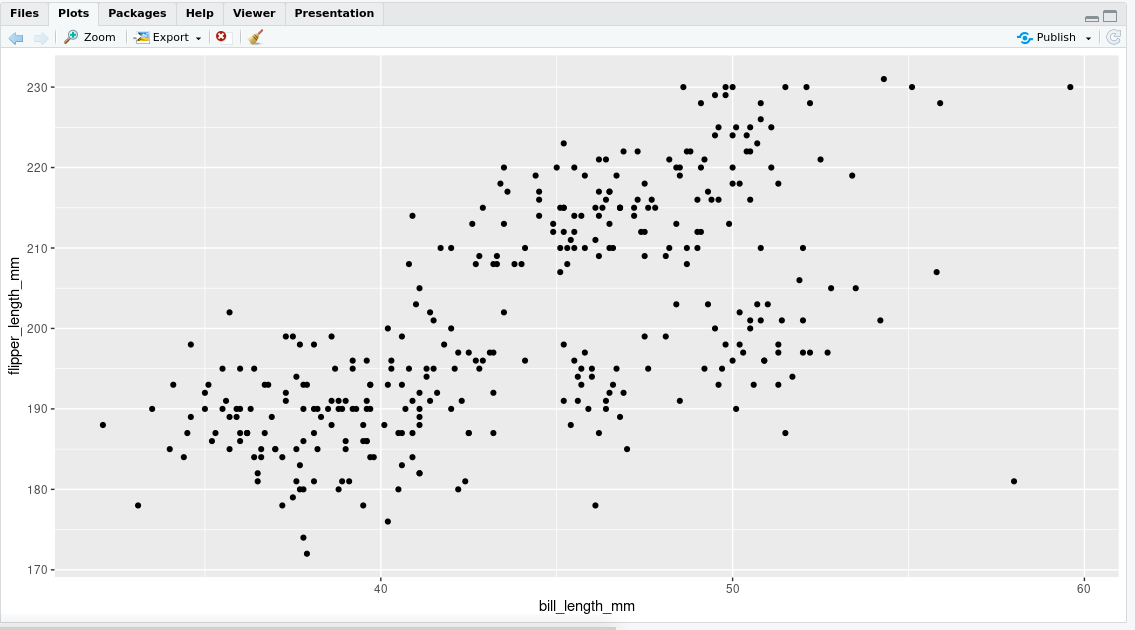
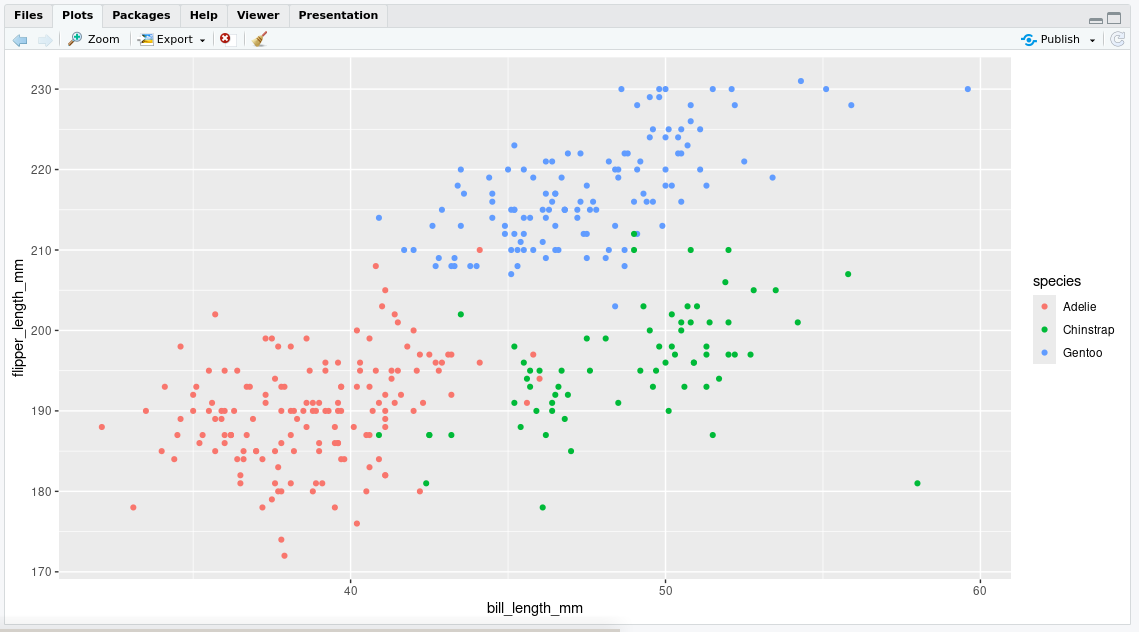
modify rstudio-basic.md

diff --git a/public/post/rstudio-basic/index.html b/public/post/rstudio-basic/index.html
@@ -132,7 +132,7 @@ What is R &amp; RStudio? Why R &amp; RStudio1 R &amp; RStudio Installation RStud
     <h1 class="post-title entry-hint-parent">
       RStudio Basic: From Installation to Data Visualization
     </h1>
-    <div class="post-meta"><span title='2024-06-13 11:56:25 -0400 EDT'>June 13, 2024</span>&nbsp;·&nbsp;11 min&nbsp;·&nbsp;Wildan
+    <div class="post-meta"><span title='2024-06-13 11:56:25 -0400 EDT'>June 13, 2024</span>&nbsp;·&nbsp;12 min&nbsp;·&nbsp;Wildan
 
 </div>
   </header> 
@@ -173,7 +173,9 @@ What is R &amp; RStudio? Why R &amp; RStudio1 R &amp; RStudio Installation RStud
                 <li>
                     <a href="#4-box-plot" aria-label="4. Box Plot">4. Box Plot</a></li>
                 <li>
-                    <a href="#5-line-plot" aria-label="5. Line Plot">5. Line Plot</a>
+                    <a href="#5-line-plot" aria-label="5. Line Plot">5. Line Plot</a></li>
+                <li>
+                    <a href="#6-pie-chart" aria-label="6. Pie Chart">6. Pie Chart</a>
                 </li>
             </ul>
             </li>
@@ -391,7 +393,7 @@ Kita bisa melihat informasi atau deskripsi dari sebuah paket atau library dengan
 <h4 id="1-scatter-plot">1. Scatter Plot<a hidden class="anchor" aria-hidden="true" href="#1-scatter-plot">#</a></h4>
 <p><strong>Scatter Plot</strong> atau <strong>Grafik Pencar</strong> digunakan untuk menampilkan hubungan antara dua variabel numerik.<br>
 Misalnya: Hubungan antara panjang paruh dan panjang sirip penguin.</p>
-<div class="highlight"><pre tabindex="0" style="color:#f8f8f2;background-color:#272822;-moz-tab-size:4;-o-tab-size:4;tab-size:4;"><code class="language-R" data-lang="R"><span style="display:flex;"><span><span style="color:#a6e22e">ggplot</span>(data <span style="color:#f92672">=</span> penguins, <span style="color:#a6e22e">aes</span>(x <span style="color:#f92672">=</span> bill_length_mm, y <span style="color:#f92672">=</span> flipper_length_mm)) <span style="color:#f92672">+</span>
+<div class="highlight"><pre tabindex="0" style="color:#f8f8f2;background-color:#272822;-moz-tab-size:4;-o-tab-size:4;tab-size:4;"><code class="language-R" data-lang="R"><span style="display:flex;"><span><span style="color:#a6e22e">ggplot</span>(data <span style="color:#f92672">=</span> penguins, <span style="color:#a6e22e">aes</span>(x <span style="color:#f92672">=</span> bill_length_mm, y <span style="color:#f92672">=</span> flipper_length_mm, color<span style="color:#f92672">=</span>species)) <span style="color:#f92672">+</span>
 </span></span><span style="display:flex;"><span>  <span style="color:#a6e22e">geom_point</span>()
 </span></span></code></pre></div><p>Hasilnya:
 <img loading="lazy" src="/rstudio-basic/ss5.png" alt="ss5"  title="Scatter Plot hubungan antara panjang paruh dan panjang sirip penguin"  />
@@ -436,6 +438,35 @@ Misalnya: Perubahan berat badan penguin dari waktu ke waktu.</p>
 </span></span></code></pre></div><p>Hasilnya:
 <img loading="lazy" src="/rstudio-basic/ss9.png" alt="ss9"  title="Line Plot perubahan berat badan penguin dari waktu ke waktu"  />
 </p>
+<h4 id="6-pie-chart">6. Pie Chart<a hidden class="anchor" aria-hidden="true" href="#6-pie-chart">#</a></h4>
+<p><strong>Pie Chart</strong> digunakan untuk menunjukkan atau membandingkan proporsi atau persentase dari beberapa kategori dalam suatu dataset<sup id="fnref:10"><a href="#fn:10" class="footnote-ref" role="doc-noteref">10</a></sup>.<br>
+Misalnya: Perbandingan jumlah spesies penguin.</p>
+<div class="highlight"><pre tabindex="0" style="color:#f8f8f2;background-color:#272822;-moz-tab-size:4;-o-tab-size:4;tab-size:4;"><code class="language-R" data-lang="R"><span style="display:flex;"><span><span style="color:#75715e"># Menghitung jumlah observasi per spesies</span>
+</span></span><span style="display:flex;"><span>penguins_count <span style="color:#f92672">&lt;-</span> penguins <span style="color:#f92672">%&gt;%</span>
+</span></span><span style="display:flex;"><span>  <span style="color:#a6e22e">count</span>(species) <span style="color:#f92672">%&gt;%</span>
+</span></span><span style="display:flex;"><span>  <span style="color:#a6e22e">mutate</span>(percent <span style="color:#f92672">=</span> n <span style="color:#f92672">/</span> <span style="color:#a6e22e">sum</span>(n) <span style="color:#f92672">*</span> <span style="color:#ae81ff">100</span>)  <span style="color:#75715e"># Menambahkan kolom percent</span>
+</span></span><span style="display:flex;"><span>
+</span></span><span style="display:flex;"><span><span style="color:#75715e"># Buat pie chart menggunakan ggplot2</span>
+</span></span><span style="display:flex;"><span>pie <span style="color:#f92672">&lt;-</span> <span style="color:#a6e22e">ggplot</span>(data <span style="color:#f92672">=</span> penguins_count, <span style="color:#a6e22e">aes</span>(x <span style="color:#f92672">=</span> <span style="color:#e6db74">&#34;&#34;</span>, y <span style="color:#f92672">=</span> n, fill <span style="color:#f92672">=</span> species)) <span style="color:#f92672">+</span>
+</span></span><span style="display:flex;"><span>  <span style="color:#a6e22e">geom_bar</span>(stat <span style="color:#f92672">=</span> <span style="color:#e6db74">&#34;identity&#34;</span>, width <span style="color:#f92672">=</span> <span style="color:#ae81ff">1</span>) <span style="color:#f92672">+</span>
+</span></span><span style="display:flex;"><span>  <span style="color:#a6e22e">coord_polar</span>(theta <span style="color:#f92672">=</span> <span style="color:#e6db74">&#34;y&#34;</span>) <span style="color:#f92672">+</span>
+</span></span><span style="display:flex;"><span>  <span style="color:#a6e22e">labs</span>(fill <span style="color:#f92672">=</span> <span style="color:#e6db74">&#34;Spesies&#34;</span>, x <span style="color:#f92672">=</span> <span style="color:#66d9ef">NULL</span>, y <span style="color:#f92672">=</span> <span style="color:#66d9ef">NULL</span>, title <span style="color:#f92672">=</span> <span style="color:#e6db74">&#34;Pie Chart Jumlah Observasi per Spesies&#34;</span>) <span style="color:#f92672">+</span>
+</span></span><span style="display:flex;"><span>  <span style="color:#a6e22e">theme_void</span>() <span style="color:#f92672">+</span>
+</span></span><span style="display:flex;"><span>  <span style="color:#a6e22e">theme</span>(legend.position <span style="color:#f92672">=</span> <span style="color:#e6db74">&#34;right&#34;</span>)
+</span></span><span style="display:flex;"><span>
+</span></span><span style="display:flex;"><span><span style="color:#75715e"># Tambahkan label persentase</span>
+</span></span><span style="display:flex;"><span>pie <span style="color:#f92672">+</span>
+</span></span><span style="display:flex;"><span>  <span style="color:#a6e22e">geom_text</span>(<span style="color:#a6e22e">aes</span>(label <span style="color:#f92672">=</span> <span style="color:#a6e22e">paste0</span>(<span style="color:#a6e22e">round</span>(percent), <span style="color:#e6db74">&#34;%&#34;</span>)), position <span style="color:#f92672">=</span> <span style="color:#a6e22e">position_stack</span>(vjust <span style="color:#f92672">=</span> <span style="color:#ae81ff">0.5</span>))
+</span></span></code></pre></div><p>Hasilnya:
+<img loading="lazy" src="/rstudio-basic/ss10.png" alt="ss10"  title="Pie Chart persentase spesies penguin"  />
+</p>
+<p>Sekian dulu untuk pembahasan RStudio Basic-nya. Kalau kalian ingin tahu lebih jauh tentang visualisasi di R dan RStudio, saya sarankan untuk membaca-baca lebih banyak, seperti misalnya pada artikel berikut: <a href="https://rpubs.com/alfanugraha/r-graph">https://rpubs.com/alfanugraha/r-graph</a>. Artikel tersebut membahas lebih dalam mengenai visualisasi dan grafik di R, mulai dari grafik dasar dengan fungsi <code>plot()</code>, <code>ggplot2()</code>, dan <code>ggplot()</code>, bahkan penerapan visualisasi spasial seperti peta.</p>
+<p>Sampai jumpa lagi di artikel saya yang lain.<br>
+See ya!</p>
+<hr>
+<p><em>By the way</em>, artikel ini saya buat dengan tampilan <strong>Debian Desktop XFCE</strong>:<br>
+<img loading="lazy" src="/rstudio-basic/debian_buuf.png" alt="debian_buuf"  />
+</p>
 <div class="footnotes" role="doc-endnotes">
 <hr>
 <ol>
@@ -465,6 +496,9 @@ Misalnya: Perubahan berat badan penguin dari waktu ke waktu.</p>
 </li>
 <li id="fn:9">
 <p><a href="https://allisonhorst.github.io/palmerpenguins/">https://allisonhorst.github.io/palmerpenguins/</a>&#160;<a href="#fnref:9" class="footnote-backref" role="doc-backlink">&#x21a9;&#xfe0e;</a>&#160;<a href="#fnref1:9" class="footnote-backref" role="doc-backlink">&#x21a9;&#xfe0e;</a></p>
+</li>
+<li id="fn:10">
+<p><a href="https://rpubs.com/alfanugraha/r-graph">https://rpubs.com/alfanugraha/r-graph</a>&#160;<a href="#fnref:10" class="footnote-backref" role="doc-backlink">&#x21a9;&#xfe0e;</a></p>
 </li>
 </ol>
 </div>

diff --git a/public/post/index.html b/public/post/index.html
@@ -142,7 +142,7 @@ RStudio menurut saya adalah software keren untuk mengolah data menggunakan bahas
 Beberapa hal yang akan saya bahas dari Rstudio di artikel ini terbagi ke dalam 6 bagian:
 What is R &amp; RStudio? Why R &amp; RStudio1 R &amp; RStudio Installation RStudio Interface Introduction Installing Packages (tidyverse &amp; palmerpenguins) Playing with Data 1....</p>
   </div>
-  <footer class="entry-footer"><span title='2024-06-13 11:56:25 -0400 EDT'>June 13, 2024</span>&nbsp;·&nbsp;11 min&nbsp;·&nbsp;Wildan</footer>
+  <footer class="entry-footer"><span title='2024-06-13 11:56:25 -0400 EDT'>June 13, 2024</span>&nbsp;·&nbsp;12 min&nbsp;·&nbsp;Wildan</footer>
   <a class="entry-link" aria-label="post link to RStudio Basic: From Installation to Data Visualization" href="http://localhost:1313/post/rstudio-basic/"></a>
 </article>
 

diff --git a/content/post/rstudio-basic.md b/content/post/rstudio-basic.md
@@ -263,7 +263,7 @@ Kita bisa membuat grafik dari dataset **penguins** tersebut menggunakan `ggplot2
 Misalnya: Hubungan antara panjang paruh dan panjang sirip penguin.
 
 ```R
-ggplot(data = penguins, aes(x = bill_length_mm, y = flipper_length_mm)) +
+ggplot(data = penguins, aes(x = bill_length_mm, y = flipper_length_mm, color=species)) +
   geom_point()
 ```
 
@@ -331,6 +331,42 @@ Hasilnya:
 ![ss9](/rstudio-basic/ss9.png "Line Plot perubahan berat badan penguin dari waktu ke waktu")
 
 
+#### 6. Pie Chart
+
+**Pie Chart** digunakan untuk menunjukkan atau membandingkan proporsi atau persentase dari beberapa kategori dalam suatu dataset[^11].  
+Misalnya: Perbandingan jumlah spesies penguin.
+
+```R
+# Menghitung jumlah observasi per spesies
+penguins_count <- penguins %>%
+  count(species) %>%
+  mutate(percent = n / sum(n) * 100)  # Menambahkan kolom percent
+
+# Buat pie chart menggunakan ggplot2
+pie <- ggplot(data = penguins_count, aes(x = "", y = n, fill = species)) +
+  geom_bar(stat = "identity", width = 1) +
+  coord_polar(theta = "y") +
+  labs(fill = "Spesies", x = NULL, y = NULL, title = "Pie Chart Jumlah Observasi per Spesies") +
+  theme_void() +
+  theme(legend.position = "right")
+
+# Tambahkan label persentase
+pie +
+  geom_text(aes(label = paste0(round(percent), "%")), position = position_stack(vjust = 0.5))
+```
+
+Hasilnya:
+![ss10](/rstudio-basic/ss10.png "Pie Chart persentase spesies penguin")
+
+Sekian dulu untuk pembahasan RStudio Basic-nya. Kalau kalian ingin tahu lebih jauh tentang visualisasi di R dan RStudio, saya sarankan untuk membaca-baca lebih banyak, seperti misalnya pada artikel berikut: https://rpubs.com/alfanugraha/r-graph. Artikel tersebut membahas lebih dalam mengenai visualisasi dan grafik di R, mulai dari grafik dasar dengan fungsi `plot()`, `ggplot2()`, dan `ggplot()`, bahkan penerapan visualisasi spasial seperti peta.
+
+Sampai jumpa lagi di artikel saya yang lain.  
+See ya!
+
+---
+_By the way_, artikel ini saya buat dengan tampilan **Debian Desktop XFCE**:  
+![debian_buuf](/rstudio-basic/debian_buuf.png)
+
 
 [^1]: https://www.r-project.org/about.html
 [^2]: https://libguides.library.kent.edu/statconsulting/r
@@ -342,3 +378,4 @@ Hasilnya:
 [^8]: https://chatgpt.com/
 [^9]: https://www.geeksforgeeks.org/how-to-install-r-studio-on-windows-and-linux/
 [^10]: https://rladiessydney.org/courses/ryouwithme/01-basicbasics-2/
+[^11]: https://rpubs.com/alfanugraha/r-graph
